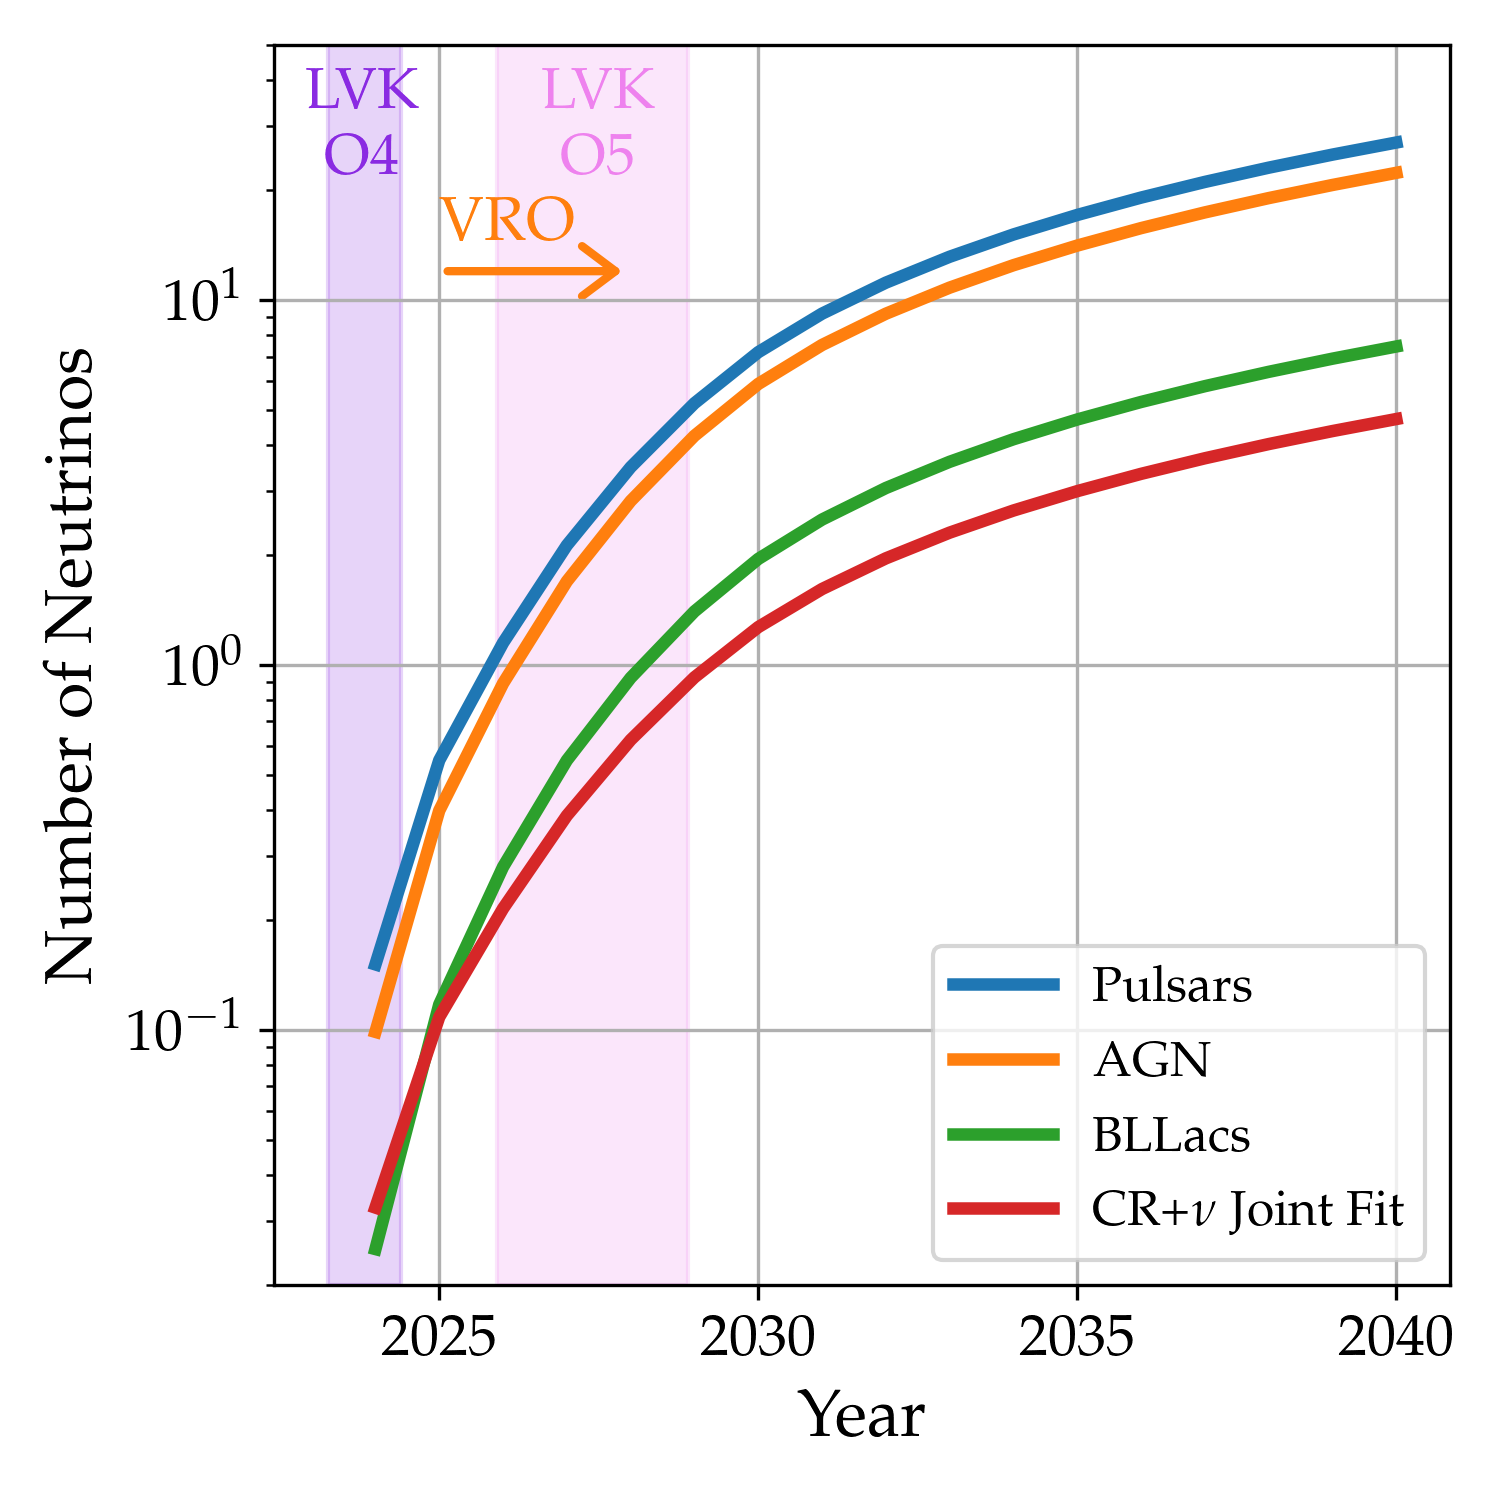
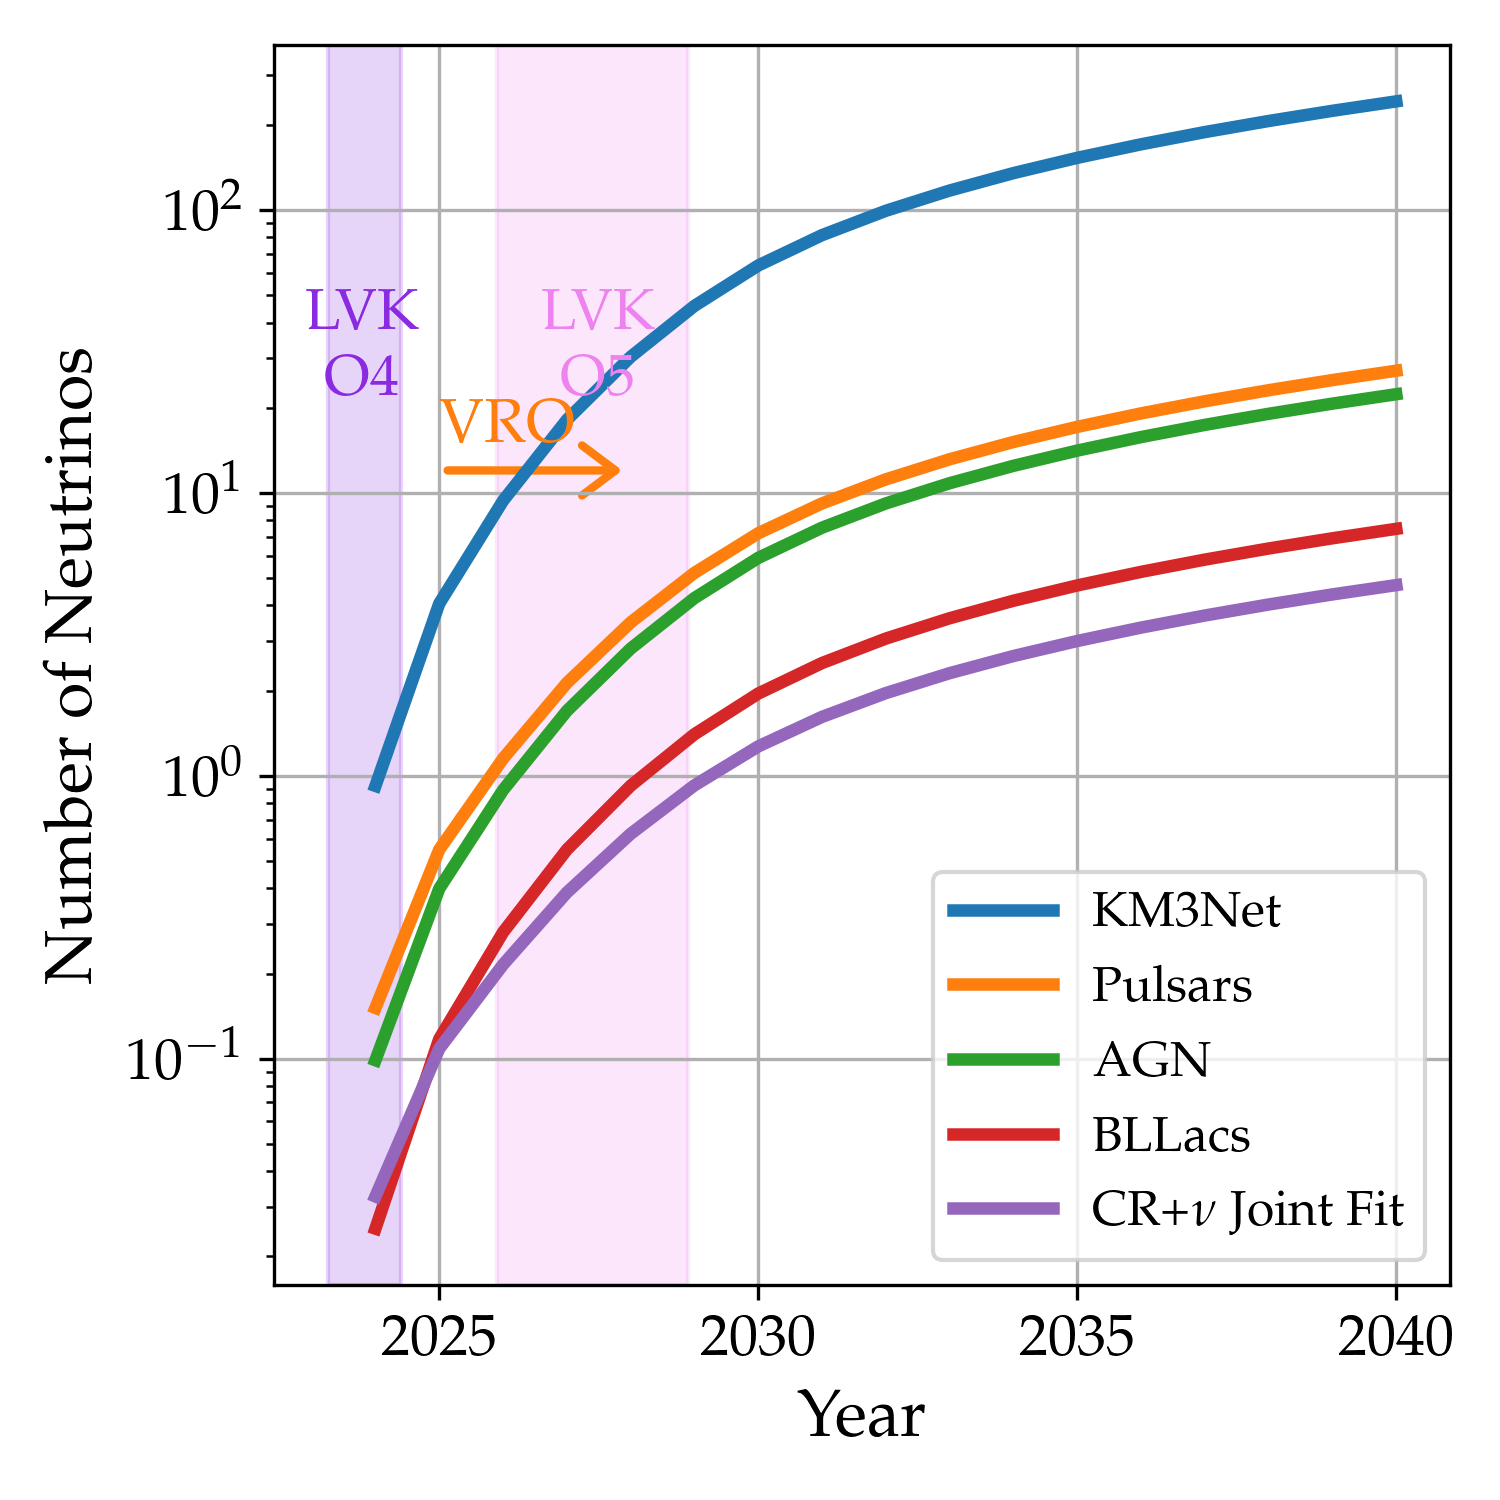
update lots of plots

diff --git a/2025-nsf-review/make_plots/makeRNOGReviewPlot_NumVsTime.py b/2025-nsf-review/make_plots/makeRNOGReviewPlot_NumVsTime.py
@@ -71,7 +71,17 @@ def get_flux(resource_name, energy_vals_logeV):
         def icecube_marco(E):
             return 4.32 * ((E/1.e14)**-2.37) * 1e-27
         flux = icecube_marco(np.power(10.,energy_vals_logeV))
-        print(flux)
+    elif(resource_name=='km3net'):
+        def km3net(E):
+            return 3 * 5.8 * ((E/2.18E17)**-2) * 1E-8 # GeV/cm2/s/sr
+        energy_vals_eV = np.power(10.,energy_vals_logeV)
+        energy_vals_GeV = energy_vals_eV/1E9
+        flux = km3net(energy_vals_eV)
+        low_mask = energy_vals_eV < 72E15
+        flux[low_mask] = 0
+        high_mask = energy_vals_eV > 2.6E18
+        flux[high_mask] = 0
+        return flux/energy_vals_GeV/energy_vals_eV
     elif(resource_name=='transgzk'):
         data_transgzk = np.genfromtxt("data/trans_gzk_protons.csv",delimiter=",", names=["energy", "flux"])
         loge_transgzk = np.log10(data_transgzk["energy"]) # original data is eV
@@ -122,7 +132,6 @@ def get_flux(resource_name, energy_vals_logeV):
                                     )
         loge = data_muzio_1EeV["energy"] # original data is logeV
         flux = np.log10(data_muzio_1EeV["flux"]) # original data is GeV/cm2/s/sr
-        print(flux)
         interp = interpolate.Akima1DInterpolator( loge, flux, method="makima")
         interp.extrapolate = False
         flux = np.power(10.,interp(energy_vals_logeV)) # 10 ^ (output of spline), to get back to GeV/cm2/s/sr
@@ -192,9 +201,10 @@ logeV = np.log10(energies)
 num_vs_time = {}
 
 # models = ["transgzk", "pulsars", "agn", "bllacs"]
-models = ["pulsars", "agn", "bllacs", "crnu"]
+models = ["km3net", "pulsars", "agn", "bllacs", "crnu"]
+# models = ["km3net"]
 # labels = {"transgzk": "Trans GZK Protons", "pulsars": "Pulsars", "agn": "AGN", "bllacs": "BLLacs"}
-labels = {"pulsars": "Pulsars", "agn": "AGN", "bllacs": "BLLacs", "crnu": r"CR+$\nu$ Joint Fit"}
+labels = {"km3net" : "KM3Net", "pulsars": "Pulsars", "agn": "AGN", "bllacs": "BLLacs", "crnu": r"CR+$\nu$ Joint Fit"}
 for model in models:
     num_events = {}
     for y in data.keys():
@@ -223,14 +233,14 @@ for model in models:
         n, bins, patches= ax_counts.hist(energy_bins,
                                             bins=np.power(10.,np.arange(15,22,0.5)),
                                             weights=counts,
-                                            label=r'IceCube Thru-Mu E$^{-2.19}$: %.2f'%counts.sum(),
+                                            label=f'{model}: %.2f'%counts.sum(),
                                             fill=False, 
                                             stacked=True, 
                                             histtype='step', 
                                             edgecolor='blue',
                                             linewidth=4)
-        # beautify_counts(ax_counts)
-        # fig.savefig(f"example_{y}.png",edgecolor='none',bbox_inches="tight") #save the figure
+        beautify_counts(ax_counts)
+        fig.savefig(f"example_{y}.png",edgecolor='none',bbox_inches="tight") #save the figure
 
         num_events[y] = n.sum()
     num_vs_time[model] = num_events
@@ -284,7 +294,7 @@ arr = mpatches.FancyArrowPatch((2025, 12), (2028, 12),
                                )
 ax_ratevstime.add_patch(arr)
 ax_ratevstime.annotate(f"VRO", (2025, 13), ha="left", va="bottom", color="C1", fontsize=15)
-ax_ratevstime.set_ylim([0.02, 50])
+# ax_ratevstime.set_ylim([0.02, 50])
 
 ax_ratevstime.grid()
 
